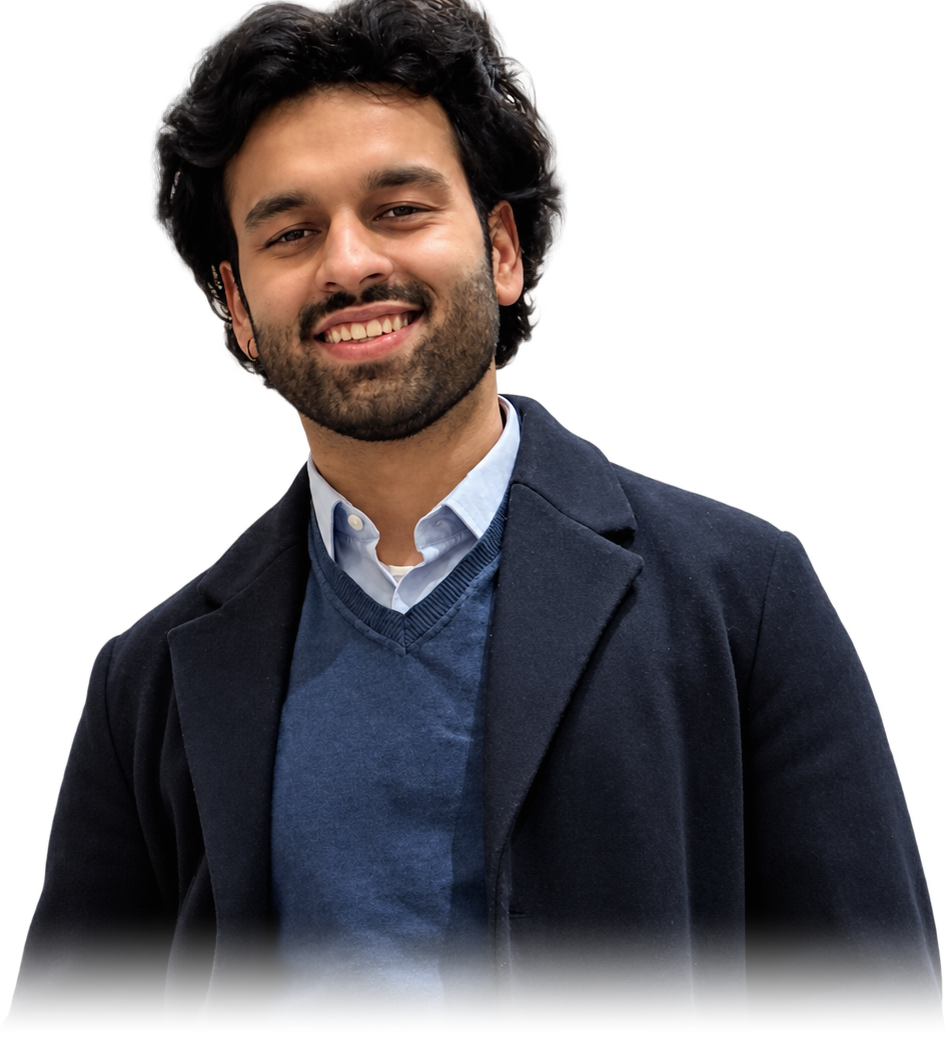
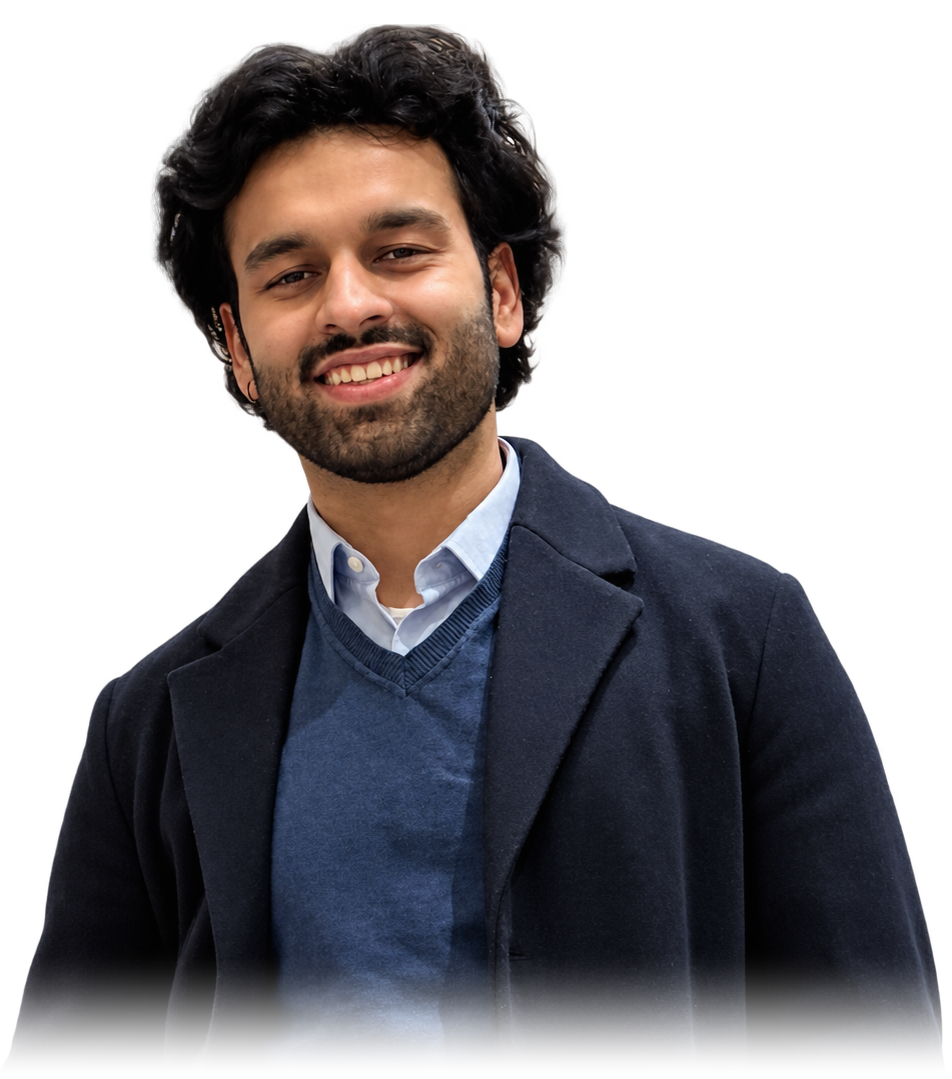
Stop cropping the top of the hair; drop the header rule over the hero
The chest-up crop started 18px down from the top of the original photo, which
sliced a flat line through the top of the hair. It now starts at the true top
with a little transparent headroom above, so the curls end naturally.

The header also loses its bottom border while it sits over the hero, so the
wave runs straight up to the top of the window with nothing dividing it.

diff --git a/index.html b/index.html
@@ -26,7 +26,7 @@
   <link rel="stylesheet" href="css/editorial-base.css?v=2">
   <link rel="stylesheet" href="css/editorial.css?v=3">
   <link rel="stylesheet" href="css/narrative.css?v=3">
-  <link rel="stylesheet" href="css/studio-home.css?v=13">
+  <link rel="stylesheet" href="css/studio-home.css?v=14">
   <script>
     try { if (localStorage.getItem('theme') === 'dark') document.documentElement.dataset.theme = 'dark'; } catch (e) {}
   </script>
@@ -68,7 +68,7 @@
           <div class="studio-portrait-art">
             <span class="studio-portrait-orbit studio-portrait-orbit--one" aria-hidden="true"></span><span class="studio-portrait-orbit studio-portrait-orbit--two" aria-hidden="true"></span>
             <div class="studio-portrait-arch" aria-hidden="true"></div>
-            <img class="studio-portrait-cutout" src="assets/studio/portrait-cutout.png?v=2" data-fallback-src="assets/logos/profile%20picture.avif" alt="Daksh Mehta" width="952" height="1037" fetchpriority="high">
+            <img class="studio-portrait-cutout" src="assets/studio/portrait-cutout.png?v=3" data-fallback-src="assets/logos/profile%20picture.avif" alt="Daksh Mehta" width="952" height="1079" fetchpriority="high">
             <span class="studio-portrait-star" aria-hidden="true">✳</span>
           </div>
           <div class="studio-portrait-caption"><div><strong>Daksh Mehta</strong><span data-beta-i18n="hero.role">CSR · ESG · Sustainability</span></div><span aria-hidden="true">↗</span></div>

diff --git a/css/studio-home.css b/css/studio-home.css
@@ -3,7 +3,7 @@
 .studio-page .beta-header{z-index:30;transition:background .35s,border-color .35s,color .35s}
 /* studio-home.js adds .studio-top-dark to <html> while the navy hero is in
    view, so the sticky bar sits on it as glass rather than as a cream slab. */
-.studio-page.studio-top-dark .beta-header{background:transparent;border-bottom-color:#a8d2f51f;color:#eef3fa}
+.studio-page.studio-top-dark .beta-header{background:transparent;border-bottom-color:transparent;color:#eef3fa}
 /* over the hero the bar is see-through, so the wave runs behind it; it only
    takes a tint while the pointer is on it */
 .studio-page.studio-top-dark .beta-header:hover,.studio-page.studio-top-dark .beta-header:focus-within{background:#09182a8c;-webkit-backdrop-filter:blur(14px);backdrop-filter:blur(14px)}
